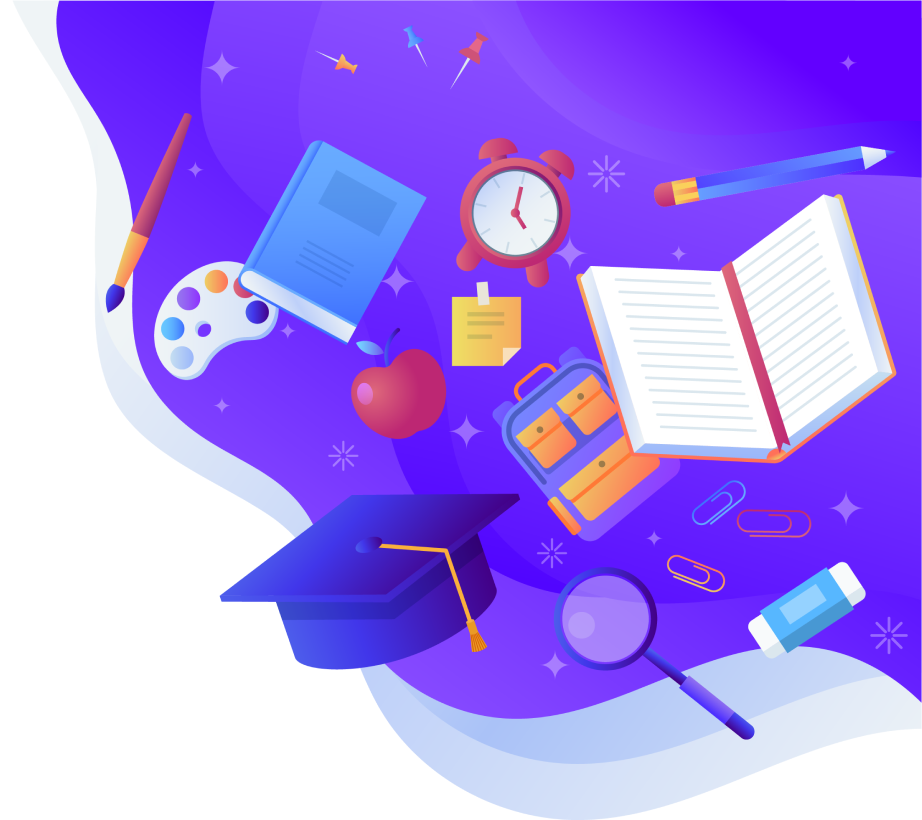
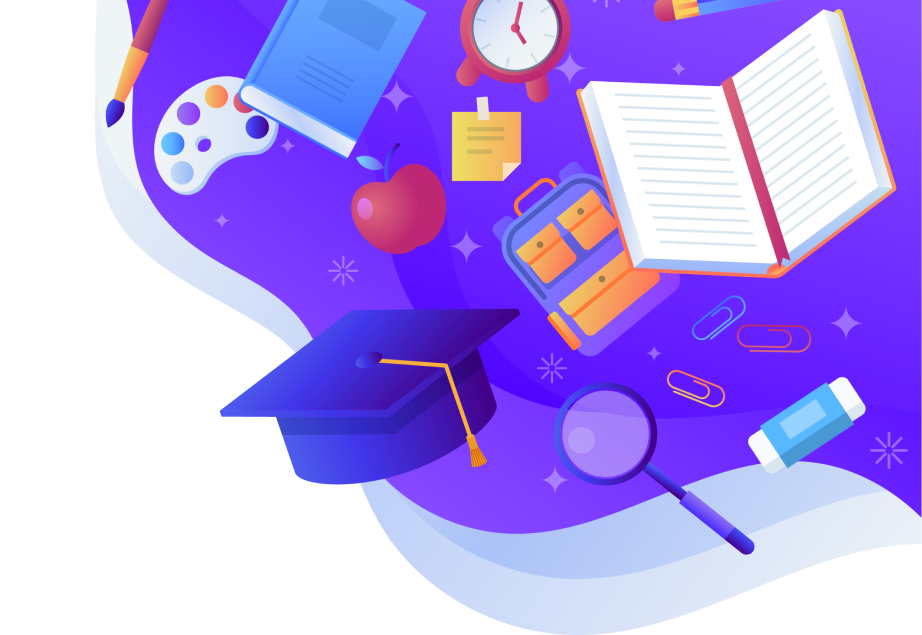
Changed bg image and height at section splash and text color for lead-2

diff --git a/src/components/landingpage/LandingSectionTeacherBenefits.js b/src/components/landingpage/LandingSectionTeacherBenefits.js
@@ -17,17 +17,17 @@ export default function LandingSectionTeacherBenefits() {
                         <div className="col-md-4">
                             <img src={iconfeature} alt=""/>
                             <p className="subheading-bold lstb-mrgn-top">Simplified Lessons</p>
-                            <p className="lead-2">Lessons can easily be accesed and are presented in video format  to be easily grasped by Alternative Learning System (ALS) learners through their online accounts.</p>
+                            <p className="lead-2 text-med">Lessons can easily be accesed and are presented in video format  to be easily grasped by Alternative Learning System (ALS) learners through their online accounts.</p>
                         </div> 
                         <div className="col-md-4">
                             <img src={iconstudy} alt=""/>
                             <p className="subheading-bold lstb-mrgn-top">Drills and Exercises</p>
-                            <p className="lead-2">Games are provided for the students to practice their mathematical skills. Unlike in the traditional way, mastering math is just few clicks away, acquiring skills and trophies.</p>
+                            <p className="lead-2 text-med">Games are provided for the students to practice their mathematical skills. Unlike in the traditional way, mastering math is just few clicks away, acquiring skills and trophies.</p>
                         </div>
                         <div className="col-md-4">
                             <img src={iconscroll} alt=""/>
                             <p className="subheading-bold lstb-mrgn-top">Online Assessments</p>
-                            <p className="lead-2">Summative tests and quizzes online can be answered wherever the students want. Scores are  also immediately reflected upon the completion of exams.</p>
+                            <p className="lead-2 text-med">Summative tests and quizzes online can be answered wherever the students want. Scores are  also immediately reflected upon the completion of exams.</p>
                         </div>                      
                     </div>
 
@@ -35,17 +35,17 @@ export default function LandingSectionTeacherBenefits() {
                         <div className="col-md-4">
                             <img src={iconspectrum} alt=""/>
                             <p className="subheading-bold lstb-mrgn-top">Immediate Feedbacks</p>
-                            <p className="lead-2">In assessments, the students can automatically see the results of their exams right after completing it. Help is also provided in case that student want to ask help from their teacher regarding a particular part in the exam which seem to be ambiguous to them. </p>
+                            <p className="lead-2 text-med">In assessments, the students can automatically see the results of their exams right after completing it. Help is also provided in case that student want to ask help from their teacher regarding a particular part in the exam which seem to be ambiguous to them. </p>
                         </div>
                         <div className="col-md-4">
                             <img src={iconmap} alt=""/>
                             <p className="subheading-bold lstb-mrgn-top">Ready Made Statistics </p>
-                            <p className="lead-2">Students can automatically see their individual progress upon completion of activities, summative tests and quizzes using scatter plots and tables. An overall statistics comparing the performances of all students in the class are also available both for teachers and students.</p>
+                            <p className="lead-2 text-med">Students can automatically see their individual progress upon completion of activities, summative tests and quizzes using scatter plots and tables. An overall statistics comparing the performances of all students in the class are also available both for teachers and students.</p>
                         </div>                       
                         <div className="col-md-4">
                             <img src={stack2} alt=""/>
                             <p className="subheading-bold lstb-mrgn-top">Reward System </p>
-                            <p className="lead-2">In every completion of tasks, a learner earns points with corresponding badges or trophies to motivate them to strive. Rank system is also available in order for learners to see their progress relative to their classmates’ performances in the class. </p>
+                            <p className="lead-2 text-med">In every completion of tasks, a learner earns points with corresponding badges or trophies to motivate them to strive. Rank system is also available in order for learners to see their progress relative to their classmates’ performances in the class. </p>
                         </div>  
                     </div>
 

diff --git a/src/components/landingpage/LandingPageBenefits.js b/src/components/landingpage/LandingPageBenefits.js
@@ -16,7 +16,7 @@ export default function LandingPageBenefits() {
                             </div>
                             <div className="col">
                                 <p className="h5-heading">Easy Tracking</p>
-                                <p className="lead-2">Learners can easily track their learning progress and teachers at the same time can easily monitor the performances of their learners through the “statistics” feature.</p>
+                                <p className="lead-2 text-med">Learners can easily track their learning progress and teachers at the same time can easily monitor the performances of their learners through the “statistics” feature.</p>
                             </div> 
                         </div>
                     <div className="row">
@@ -25,7 +25,7 @@ export default function LandingPageBenefits() {
                             </div> 
                             <div className="col">
                                 <p className="h5-heading">Learning is Fun</p>
-                                <p className="lead-2">Learning a mathematical skill is embedded on games where learners play, have fun and at the same time learn. </p>
+                                <p className="lead-2 text-med">Learning a mathematical skill is embedded on games where learners play, have fun and at the same time learn. </p>
                             </div>
                         </div>
                     <div className="row">
@@ -34,7 +34,7 @@ export default function LandingPageBenefits() {
                             </div>
                             <div className="col">
                                 <p className="h5-heading">Flexible Study Terms</p>
-                                <p className="lead-2">The student can organize his/her class with his/her teacher at a schedule most convenient to him or her. No need to attend a face-to-face class and go to community learning centers to attend Alternative Learning System (ALS) classes.</p>
+                                <p className="lead-2 text-med">The student can organize his/her class with his/her teacher at a schedule most convenient to him or her. No need to attend a face-to-face class and go to community learning centers to attend Alternative Learning System (ALS) classes.</p>
                             </div>
                         </div>
                 </div>

diff --git a/src/components/landingpage/LandingPageSectionAbout.js b/src/components/landingpage/LandingPageSectionAbout.js
@@ -14,8 +14,8 @@ export default function LandingPageSectionFeature() {
           </div>
             <div className="col-md-7">
               <p className="h2-heading text-high mb-4">ABOUT US</p> 
-              <p className="lead-1"><span className="text-accent">Math Grellic</span> is a game-based website application designed and developed to help address the least dealt learning competencies of the K to 12 Basic Education Curriculum for the Alternative Learning System (ALS-K to 12) specifically in the Learning Strand 3 (Mathematical and Problem Solving Skills).</p>                
-              <p className="lead-1">Moreover, this website application is designed not only to help the Alternative Learning System (ALS) learners master a mathematical skill but also the Alternative Learning System (ALS) teachers to easily track the progress of their learners and give feedbacks immediately. Less paper works in the case of teachers for everything is made easier through the help of technology. </p>          
+              <p className="lead-1 text-med"><span className="text-accent">Math Grellic</span> is a game-based website application designed and developed to help address the least dealt learning competencies of the K to 12 Basic Education Curriculum for the Alternative Learning System (ALS-K to 12) specifically in the Learning Strand 3 (Mathematical and Problem Solving Skills).</p>                
+              <p className="lead-1 text-med">Moreover, this website application is designed not only to help the Alternative Learning System (ALS) learners master a mathematical skill but also the Alternative Learning System (ALS) teachers to easily track the progress of their learners and give feedbacks immediately. Less paper works in the case of teachers for everything is made easier through the help of technology. </p>          
             </div>
           </div>
         <div className="container-fluid row">

diff --git a/src/styles/main.css b/src/styles/main.css
@@ -187,7 +187,7 @@ body{
     background-size: contain;
     background-position-x: right;
     /* width: 100%; */
-    max-height: 90vh;
+    max-height: 75vh;
 }
 .bg-cta {
     max-height: 90vh;
